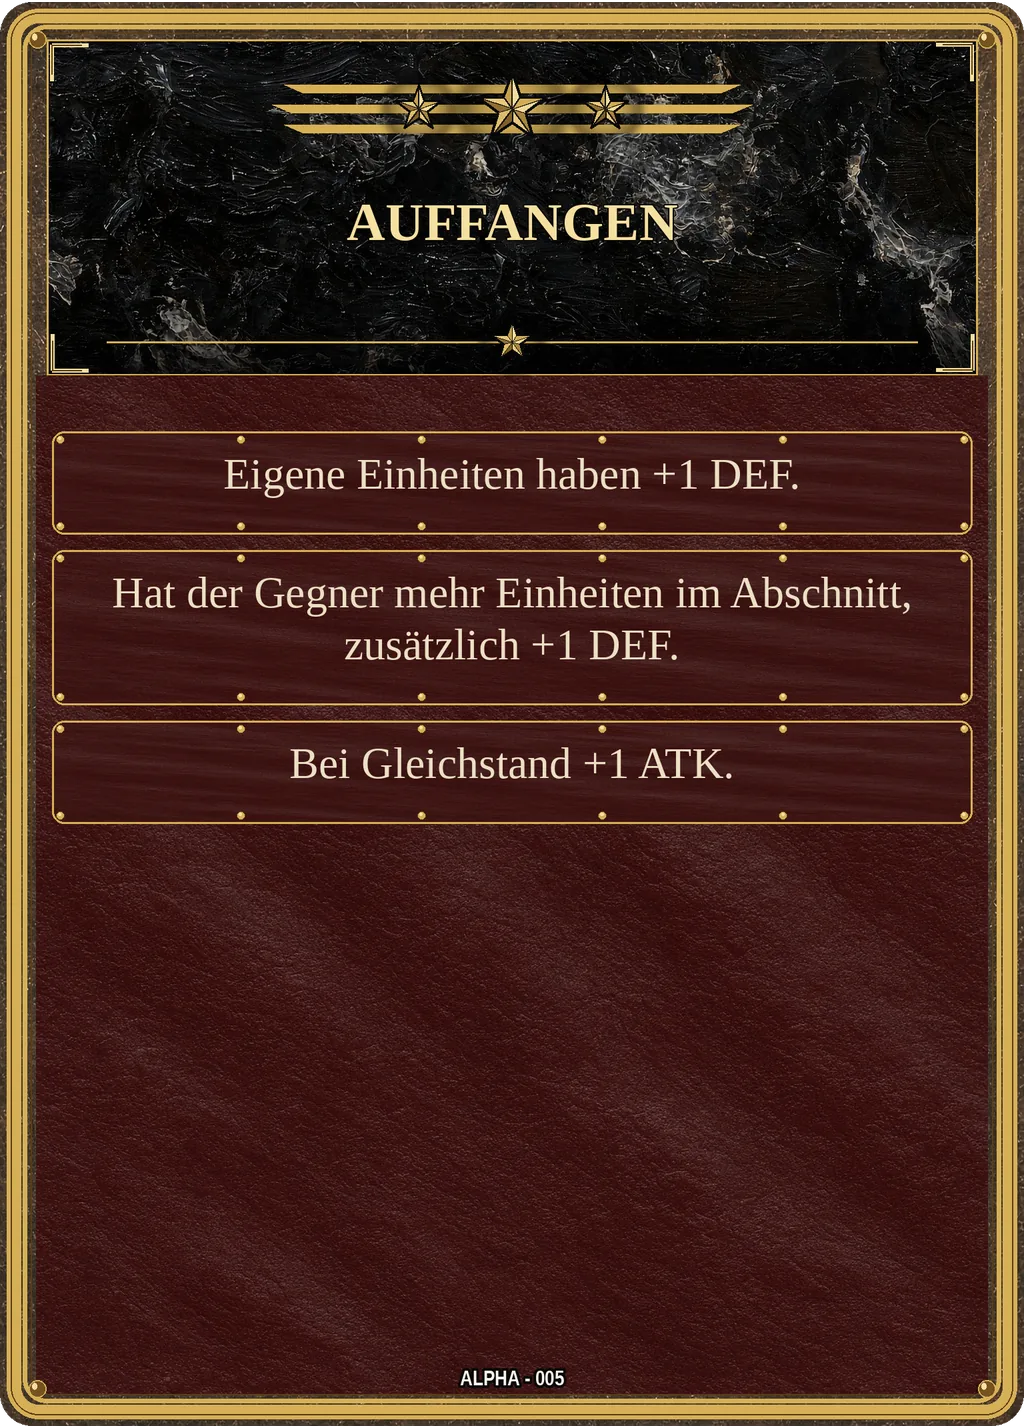
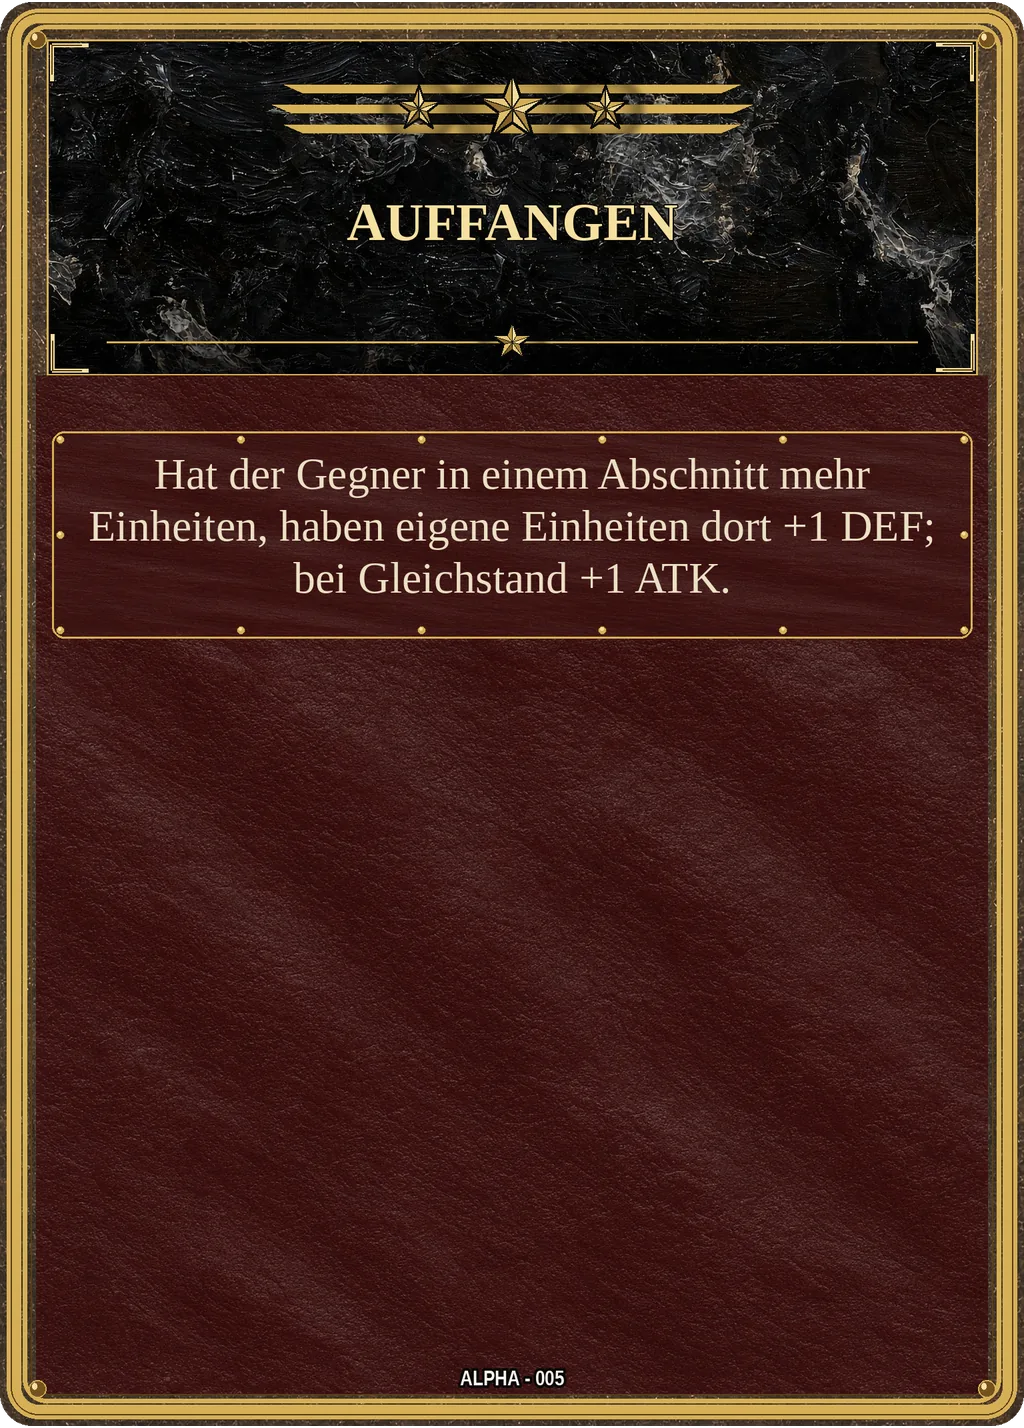
t300: Balance p2 – Linienkrieg (+1 DEF nur bei drei eigenen im Abschnitt), Auffangen ohne Grundbonus, Gepanzerter Fuß nur ausgerüstet +1/+1, Entsatz hält nur +1 ATK; Texte, Kurztexte, 4 Flächen neu, Test t298 angepasst

diff --git a/tests/test_doctrine_def_t298.js b/tests/test_doctrine_def_t298.js
@@ -56,8 +56,9 @@ const onFront = (eng, inst) => { const l = eng.findInst(inst.uid); return !!(l &
 /** @param {object} eng @param {number} n @returns {string[]} letzte Ereignistexte */
 const lastEvents = (eng, n) => (eng.state.events || []).slice(-(n || 6)).map((e) => e.text);
 
-// 1) Playtest mwmhnwd9 Eintrag 45: Parlamentsbote (Auffangen: +1 Grund, +1 bei Unterzahl) zeigt 4 DEF und
-//    überlebt jetzt 2 Gegenschaden; vorher starb er bei inst.def 2.
+// 1) Playtest mwmhnwd9 Eintrag 45: Parlamentsbote zeigte 4 DEF (0.611: Auffangen +1 Grund, +1 bei Unterzahl) und
+//    starb bei inst.def 2. Seit t300 (0.624) hat Auffangen keinen Grundbonus mehr: Anzeige 3 = echte DEF 3,
+//    er überlebt 2 Gegenschaden mit 1.
 {
   const { eng } = boot(1);
   doctrines(eng, 0, ['dc_dok_lauer', 'dc_dok_verteilte_stellung']);
@@ -66,40 +67,40 @@ const lastEvents = (eng, n) => (eng.state.events || []).slice(-(n || 6)).map((e)
   const pfad = L.put(eng, 0, PFAD, 'C', 0); L.put(eng, 0, SCHILD, 'C', 1); L.put(eng, 0, LAUERND, 'C', 2);
   pfad.flags.dokRested = true; // Lauer: geruht → +1 ATK (Gegenschlag 2 wie im Playtest)
   settle(eng);
-  assert.equal(shown(eng, bote), 4, 'Anzeige 4 DEF wie im Playtest');
-  assert.equal(bote.def, 4, 'die angezeigte DEF ist die echte DEF');
+  assert.equal(shown(eng, bote), 3, 'Anzeige 3 DEF (gedruckt 2 + Unterzahl 1)');
+  assert.equal(bote.def, 3, 'die angezeigte DEF ist die echte DEF');
   assert.equal(eng.currentAtkDef(pfad).atk, 2, 'Gegenschlag 2');
   const r = eng.dispatch({ type: 'ATTACK', player: 1, uid: bote.uid, target: pfad.uid });
   assert.ok(r.ok, r.error);
-  assert.ok(onFront(eng, bote), 'Parlamentsbote überlebt 2 Schaden bei 4 DEF');
-  assert.equal(bote.def, 2); assert.equal(shown(eng, bote), 2, 'Anzeige nach dem Treffer = echte DEF');
+  assert.ok(onFront(eng, bote), 'Parlamentsbote überlebt 2 Schaden bei 3 DEF');
+  assert.equal(bote.def, 1); assert.equal(shown(eng, bote), 1, 'Anzeige nach dem Treffer = echte DEF');
   assert.ok(lastEvents(eng).some((t) => /richtet 1 Schaden an, erhält 2\./.test(t)), 'Gegenschlag im Kampftext');
   console.log('ok t298 Playtest-Fall: Auffangen-DEF zählt im Kampf');
 }
 
-// 2) Auffangen: Grundbonus und Unterzahl-Bonus; Verlust des Bonus senkt DEF, tötet aber nie (mind. 1).
+// 2) Auffangen (seit t300 ohne Grundbonus): Unterzahl-Bonus; Verlust des Bonus senkt DEF, tötet aber nie (mind. 1).
 {
   const { eng } = boot(0);
   doctrines(eng, 0, ['dc_dok_auffangen']);
   const u = L.put(eng, 0, INF, 'L', 0);
   const p = Number(eng.defOf(u).def);
   settle(eng);
-  assert.equal(u.def, p + 1, 'Grundbonus +1 eingebacken'); assert.equal(shown(eng, u), u.def);
+  assert.equal(u.def, p, 'kein Grundbonus (t300)'); assert.equal(shown(eng, u), u.def);
   L.put(eng, 1, INF, 'L', 0); L.put(eng, 1, INF, 'L', 1);
   settle(eng);
-  assert.equal(u.def, p + 2, 'Unterzahl +1'); assert.equal(u.defMax, p + 2, 'Höchst-DEF wächst mit');
-  eng._damage(u, p + 1, { tag: 'test' });
-  assert.equal(u.def, 1, 'überlebt Schaden in Höhe der gedruckten DEF + 1');
+  assert.equal(u.def, p + 1, 'Unterzahl +1'); assert.equal(u.defMax, p + 1, 'Höchst-DEF wächst mit');
+  eng._damage(u, p, { tag: 'test' });
+  assert.equal(u.def, 1, 'überlebt Schaden in Höhe der gedruckten DEF');
   assert.ok(!eng._isDead(u));
   eng.player(1).front.L[1] = null; settle(eng); // Unterzahl endet: −1 DEF, aber nicht unter 1
-  assert.equal(u.def, 1, 'Bonusverlust tötet nicht'); assert.equal(u.defMax, p + 1);
+  assert.equal(u.def, 1, 'Bonusverlust tötet nicht'); assert.equal(u.defMax, p);
   assert.equal(shown(eng, u), 1, 'Anzeige stimmt nach Bonusverlust');
   eng._damage(u, 1, { tag: 'test' });
   assert.ok(eng._isDead(u), 'danach tödlich');
   console.log('ok t298 Auffangen: Bonus zählt, Verlust tötet nicht');
 }
 
-// 3) Verteilte Stellung (+2 DEF allein im Abschnitt) und Linienkrieg (+1, ab 2 Einheiten +1).
+// 3) Verteilte Stellung (+2 DEF allein im Abschnitt) und Linienkrieg (seit t300: nur +1 bei drei eigenen im Abschnitt).
 {
   const { eng } = boot(0);
   doctrines(eng, 0, ['dc_dok_verteilte_stellung']);
@@ -114,10 +115,12 @@ const lastEvents = (eng, n) => (eng.state.events || []).slice(-(n || 6)).map((e)
   const b = boot(0); doctrines(b.eng, 0, ['dc_dok_linienkrieg']);
   const a1 = L.put(b.eng, 0, INF, 'C', 0);
   settle(b.eng);
-  assert.equal(a1.def, p + 1, 'Linienkrieg Grund +1');
+  assert.equal(a1.def, p, 'Linienkrieg: kein Grundbonus (t300)');
   const a2 = L.put(b.eng, 0, INF, 'C', 1); settle(b.eng);
-  assert.equal(a1.def, p + 2, 'ab 2 Einheiten +1'); assert.equal(a2.def, p + 2);
-  b.eng._damage(a1, p + 1, { tag: 'test' });
+  assert.equal(a1.def, p, 'zwei Einheiten: noch kein Bonus'); assert.equal(a2.def, p);
+  const a3 = L.put(b.eng, 0, INF, 'C', 2); settle(b.eng);
+  assert.equal(a1.def, p + 1, 'drei Einheiten +1'); assert.equal(a3.def, p + 1);
+  b.eng._damage(a1, p, { tag: 'test' });
   assert.ok(!b.eng._isDead(a1), 'Linienkrieg-DEF hält im Kampf');
   console.log('ok t298 Verteilte Stellung und Linienkrieg zählen im Kampf');
 }

diff --git a/Division_Command/web/js/data/sets/types/doktrinen.js b/Division_Command/web/js/data/sets/types/doktrinen.js
@@ -172,11 +172,11 @@ window.DC_SET_TYPES["Doktrin"] = [
       "doktrin"
     ],
     "klasse_tags": [],
-    "text": "Eigene Einheiten haben +1 DEF. Hat der Gegner mehr Einheiten im Abschnitt, zusätzlich +1 DEF. Bei Gleichstand +1 ATK.",
+    "text": "Hat der Gegner in einem Abschnitt mehr Einheiten, haben eigene Einheiten dort +1 DEF; bei Gleichstand +1 ATK.",
     "clauses": [
       {
         "title": "",
-        "body": "Eigene Einheiten haben +1 DEF. Hat der Gegner mehr Einheiten im Abschnitt, zusätzlich +1 DEF. Bei Gleichstand +1 ATK."
+        "body": "Hat der Gegner in einem Abschnitt mehr Einheiten, haben eigene Einheiten dort +1 DEF; bei Gleichstand +1 ATK."
       }
     ],
     "effects": [
@@ -184,7 +184,7 @@ window.DC_SET_TYPES["Doktrin"] = [
         "code": "AUFFANGEN",
         "param": {
           "def": 1,
-          "base_def": 1,
+          "base_def": 0,
           "equal_atk": 1
         }
       }
@@ -439,11 +439,11 @@ window.DC_SET_TYPES["Doktrin"] = [
       "doktrin"
     ],
     "klasse_tags": [],
-    "text": "Einheiten in Abschnitten, die im letzten Zug angegriffen wurden, haben +1 ATK und +1 DEF. Einrücken in solche Abschnitte gibt denselben Bonus bis Zugende.",
+    "text": "Eigene Einheiten in Abschnitten, die im letzten Zug angegriffen wurden, haben +1 ATK. Wer dort einrückt, hat bis Zugende zusätzlich +1 ATK und +1 DEF.",
     "clauses": [
       {
         "title": "",
-        "body": "Einheiten in Abschnitten, die im letzten Zug angegriffen wurden, haben +1 ATK und +1 DEF. Einrücken in solche Abschnitte gibt denselben Bonus bis Zugende."
+        "body": "Eigene Einheiten in Abschnitten, die im letzten Zug angegriffen wurden, haben +1 ATK. Wer dort einrückt, hat bis Zugende zusätzlich +1 ATK und +1 DEF."
       }
     ],
     "effects": [
@@ -455,7 +455,7 @@ window.DC_SET_TYPES["Doktrin"] = [
             "atk": 1,
             "def": 1
           },
-          "held_def": 1,
+          "held_def": 0,
           "held_atk": 1
         }
       }
@@ -628,11 +628,11 @@ window.DC_SET_TYPES["Doktrin"] = [
       "doktrin"
     ],
     "klasse_tags": [],
-    "text": "Eigene Einheiten haben +1 DEF. Ausgerüstete eigene Einheiten haben zusätzlich +1 ATK.",
+    "text": "Ausgerüstete eigene Einheiten haben +1 ATK und +1 DEF.",
     "clauses": [
       {
         "title": "",
-        "body": "Ausgerüstete eigene Einheiten haben +1 DEF."
+        "body": "Ausgerüstete eigene Einheiten haben +1 ATK und +1 DEF."
       }
     ],
     "effects": [
@@ -640,9 +640,9 @@ window.DC_SET_TYPES["Doktrin"] = [
         "code": "GEPANZERTER_FUSS",
         "param": {
           "if": "equipped",
-          "def": 0,
+          "def": 1,
           "atk": 1,
-          "base_def": 1
+          "base_def": 0
         }
       }
     ],
@@ -704,11 +704,11 @@ window.DC_SET_TYPES["Doktrin"] = [
       "doktrin"
     ],
     "klasse_tags": [],
-    "text": "Eigene Einheiten haben +1 DEF. Stehen mindestens zwei eigene in einem Abschnitt, zusätzlich +1 DEF. Der Fluss hält die Linie.",
+    "text": "Eigene Einheiten in einem Abschnitt mit drei eigenen Einheiten haben +1 DEF. Der Fluss hält die Linie.",
     "clauses": [
       {
         "title": "",
-        "body": "Eigene Einheiten haben +1 DEF. Stehen mindestens zwei eigene in einem Abschnitt, zusätzlich +1 DEF. Der Fluss hält die Linie."
+        "body": "Eigene Einheiten in einem Abschnitt mit drei eigenen Einheiten haben +1 DEF. Der Fluss hält die Linie."
       }
     ],
     "effects": [
@@ -716,8 +716,8 @@ window.DC_SET_TYPES["Doktrin"] = [
         "code": "LINIENKRIEG",
         "param": {
           "if": "section-has-at-least",
-          "count": 2,
-          "base_def": 1,
+          "count": 3,
+          "base_def": 0,
           "def": 1
         }
       }
